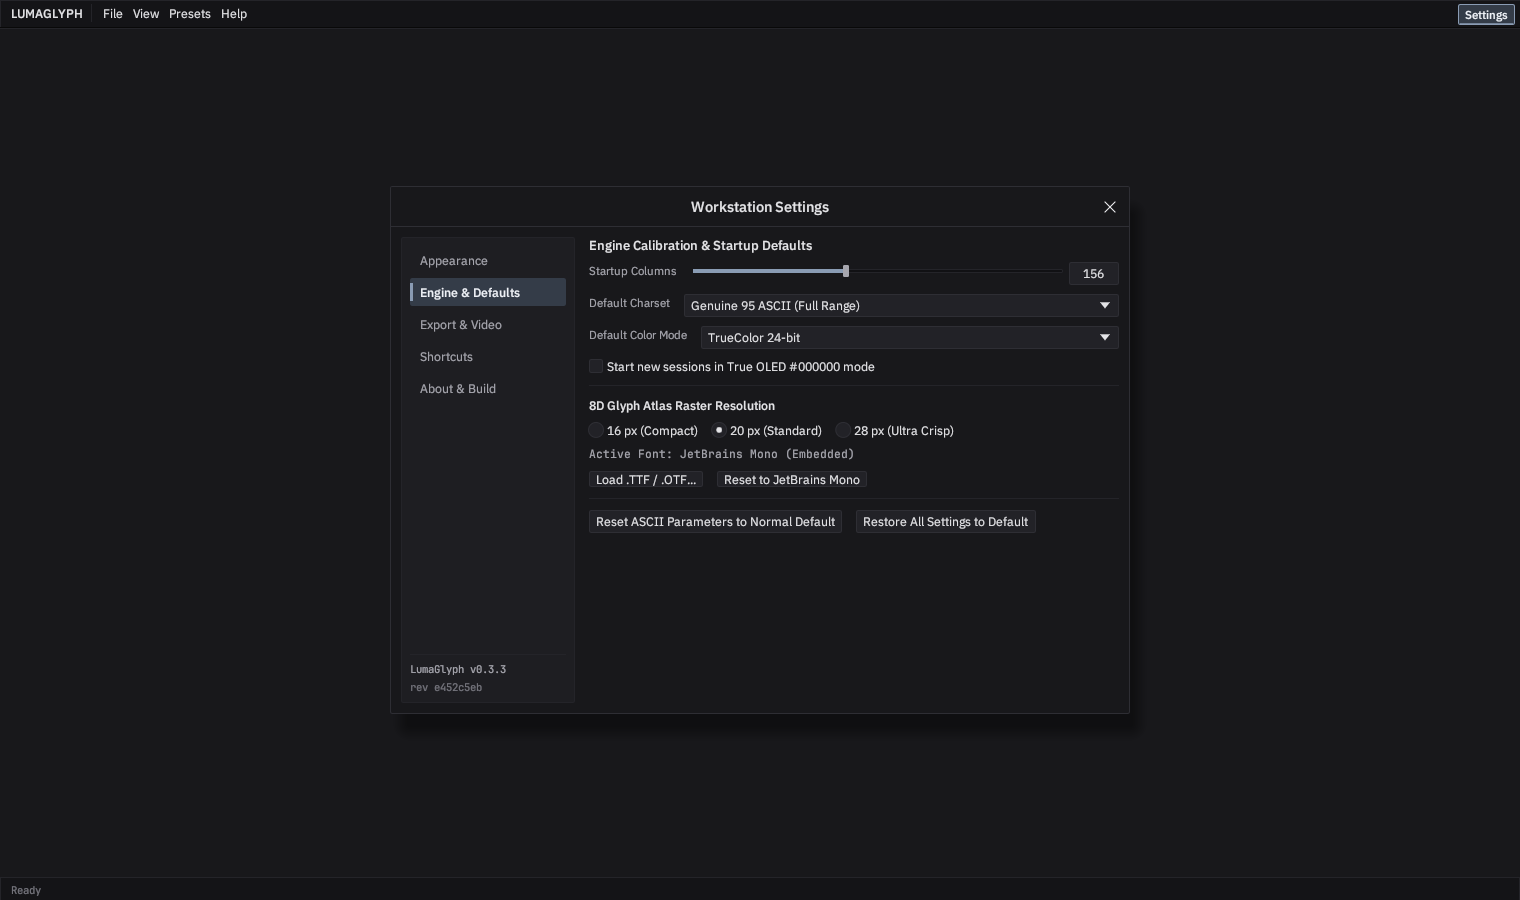
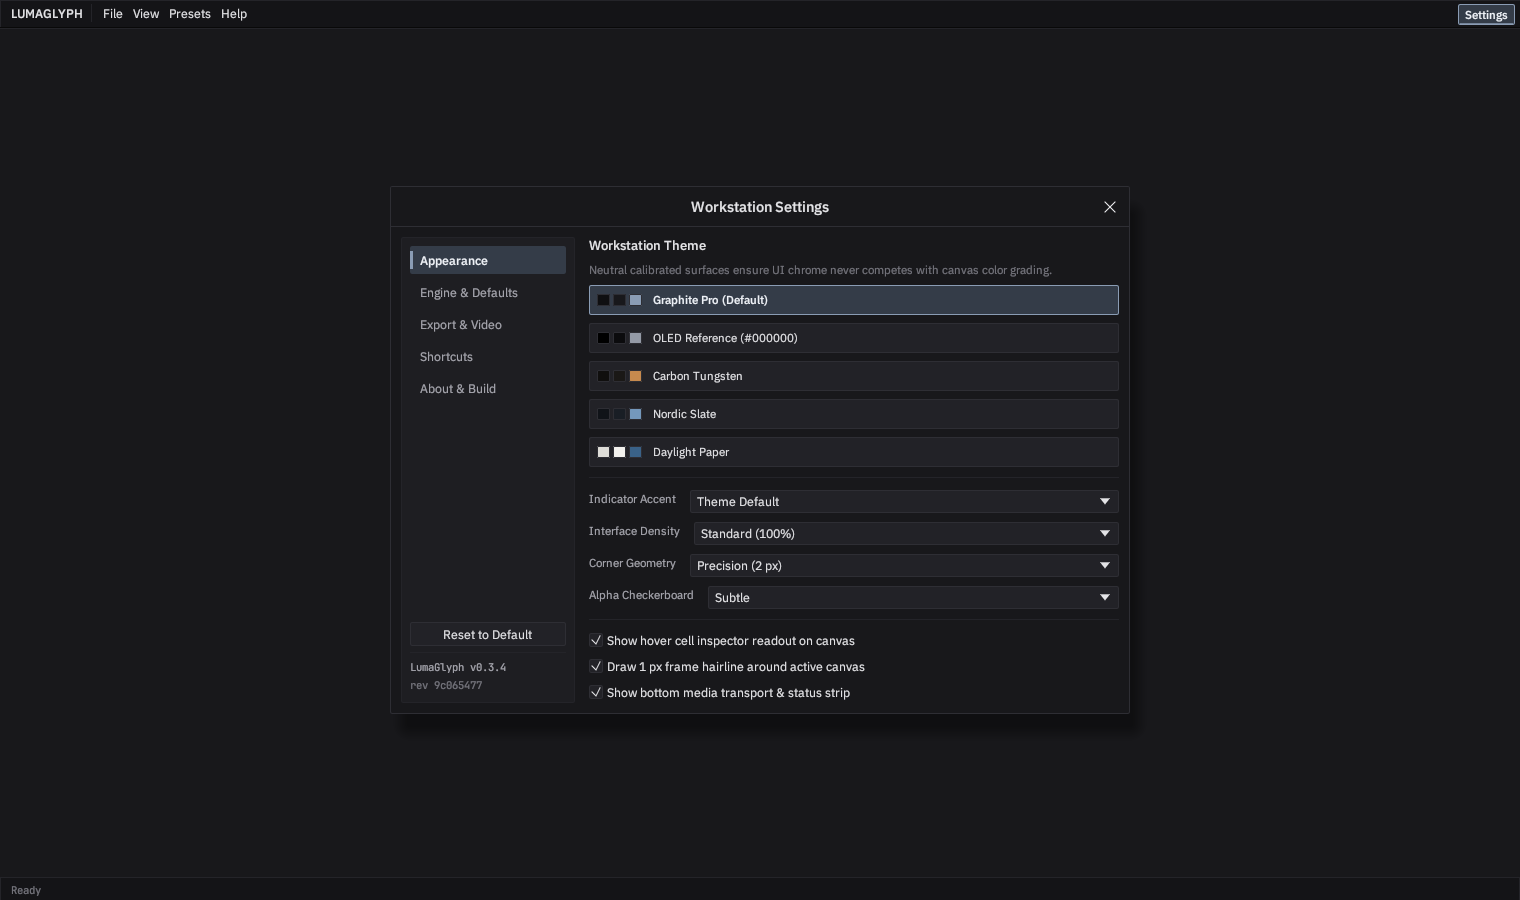
v0.3.4: Windows running-exe safe source rebuild, anchored Reset to Default in Settings rail, startup default sync

Changed region(s): [[0.2474, 0.2489, 0.7421, 0.7778], [0.2783, 0.6844, 0.3401, 0.7778]]

diff --git a/src/updater.rs b/src/updater.rs
@@ -1720,9 +1720,37 @@ fn configure_hidden_subprocess(cmd: &mut std::process::Command) {
     }
 }
 
+fn resolve_cargo_program() -> PathBuf {
+    if let Some(c) = std::env::var_os("CARGO") {
+        let p = PathBuf::from(c);
+        if p.is_file() {
+            return p;
+        }
+    }
+    let bin_name = if cfg!(target_os = "windows") {
+        "cargo.exe"
+    } else {
+        "cargo"
+    };
+    if let Some(ch) = std::env::var_os("CARGO_HOME") {
+        let p = PathBuf::from(ch).join("bin").join(bin_name);
+        if p.is_file() {
+            return p;
+        }
+    }
+    if let Some(home) = dirs::home_dir() {
+        let p = home.join(".cargo").join("bin").join(bin_name);
+        if p.is_file() {
+            return p;
+        }
+    }
+    PathBuf::from(bin_name)
+}
+
 /// Fetches the verified release tag from the canonical GitHub repository inside a local Cargo checkout,
-/// rebuilds `lumaglyph` in `--release --locked` mode with zero console window popups, verifies the
-/// compiled native binary header, and updates `target_exe`.
+/// rebuilds `lumaglyph` in `--release --locked` mode with zero console window popups (moving any running
+/// Windows `lumaglyph.exe` aside to `.old` prior to linking so `link.exe` never hits `LNK1104`), verifies
+/// the compiled native binary header, and updates `target_exe`.
 pub fn rebuild_from_verified_release_tag(
     repo: &str,
     tag: &str,
@@ -1777,20 +1805,6 @@ pub fn rebuild_from_verified_release_tag(
         ));
     }
 
-    let mut cargo_cmd = std::process::Command::new("cargo");
-    configure_hidden_subprocess(&mut cargo_cmd);
-    let build_out = cargo_cmd
-        .current_dir(repo_root)
-        .args(["build", "--release", "--locked"])
-        .output()
-        .map_err(|e| format!("Failed invoking cargo build: {e}"))?;
-    if !build_out.status.success() {
-        return Err(format!(
-            "cargo build --release --locked failed: {}",
-            String::from_utf8_lossy(&build_out.stderr).trim()
-        ));
-    }
-
     let bin_name = if cfg!(target_os = "windows") {
         "lumaglyph.exe"
     } else {
@@ -1802,12 +1816,66 @@ pub fn rebuild_from_verified_release_tag(
         .join("release")
         .join(bin_name);
 
-    let built_bytes = fs::read(&built_path).map_err(|e| {
-        format!(
-            "Failed reading rebuilt release binary '{}': {e}",
-            built_path.display()
-        )
-    })?;
+    // On Windows, if the running executable IS `target\release\lumaglyph.exe`, rename it to `.old`
+    // before invoking `cargo build --release` so MSVC `link.exe` can write the new `.exe` cleanly.
+    let mut moved_running_backup: Option<PathBuf> = None;
+    if built_path == target_exe && target_exe.exists() {
+        let parent = target_exe.parent().unwrap_or_else(|| Path::new("."));
+        let nonce = TMP_NONCE.fetch_add(1, Ordering::Relaxed);
+        let pid = std::process::id();
+        let primary_old = parent.join(format!("{bin_name}.old"));
+        if primary_old.exists() {
+            let _ = fs::remove_file(&primary_old);
+        }
+        let backup_path = if primary_old.exists() {
+            parent.join(format!("{bin_name}.old.{pid}.{nonce}"))
+        } else {
+            primary_old
+        };
+        if fs::rename(target_exe, &backup_path).is_ok() {
+            moved_running_backup = Some(backup_path);
+        }
+    }
+
+    let mut cargo_cmd = std::process::Command::new(resolve_cargo_program());
+    configure_hidden_subprocess(&mut cargo_cmd);
+    let build_res = cargo_cmd
+        .current_dir(repo_root)
+        .args(["build", "--release", "--locked"])
+        .output();
+
+    let build_out = match build_res {
+        Ok(out) if out.status.success() => out,
+        Ok(out) => {
+            if let Some(bak) = &moved_running_backup {
+                let _ = fs::rename(bak, target_exe);
+            }
+            return Err(format!(
+                "cargo build --release --locked failed: {}",
+                String::from_utf8_lossy(&out.stderr).trim()
+            ));
+        }
+        Err(e) => {
+            if let Some(bak) = &moved_running_backup {
+                let _ = fs::rename(bak, target_exe);
+            }
+            return Err(format!("Failed invoking cargo build: {e}"));
+        }
+    };
+    let _ = build_out;
+
+    let built_bytes = match fs::read(&built_path) {
+        Ok(b) => b,
+        Err(e) => {
+            if let Some(bak) = &moved_running_backup {
+                let _ = fs::rename(bak, target_exe);
+            }
+            return Err(format!(
+                "Failed reading rebuilt release binary '{}': {e}",
+                built_path.display()
+            ));
+        }
+    };
     let digest = sha256_bytes(&built_bytes);
 
     if let Some(target) = PlatformTarget::current() {
@@ -1816,6 +1884,10 @@ pub fn rebuild_from_verified_release_tag(
         } else {
             verify_executable_header(&built_bytes, target)?;
         }
+    }
+
+    if let Some(bak) = &moved_running_backup {
+        let _ = fs::remove_file(bak);
     }
 
     let final_exe = if built_path == target_exe {

diff --git a/src/gui.rs b/src/gui.rs
@@ -300,10 +300,16 @@ impl LumaGlyphApp {
 
     fn reset_ascii_to_default(&mut self) {
         self.params = RenderParams::default();
-        self.atlas = GlyphAtlas::default_embedded(self.prefs.atlas_cell_height.clamp(12, 36));
+        self.prefs.default_cols = 156;
+        self.prefs.default_charset = CharsetPreset::Genuine95;
+        self.prefs.default_color_mode = ColorMode::TrueColor;
+        self.prefs.default_oled_black = false;
+        self.prefs.atlas_cell_height = 20;
+        self.atlas = GlyphAtlas::default_embedded(20);
         self.auto_fit = true;
         self.zoom = 1.0;
         self.pan_offset = Vec2::ZERO;
+        let _ = self.prefs.save();
         self.sync_look_code();
         self.ascii_dirty = true;
         self.set_toast("Reset ASCII parameters to normal default");
@@ -2153,9 +2159,21 @@ impl LumaGlyphApp {
                                         }
                                     }
 
-                                    let rem = ui.available_height() - 42.0;
+                                    let rem = ui.available_height() - 72.0;
                                     if rem > 4.0 {
                                         ui.add_space(rem);
+                                    }
+                                    if ui
+                                        .add_sized(
+                                            [ui.available_width(), 24.0],
+                                            egui::Button::new("Reset to Default"),
+                                        )
+                                        .on_hover_text(
+                                            "Reset all ASCII parameters and startup defaults to normal (Ctrl+Shift+R)",
+                                        )
+                                        .clicked()
+                                    {
+                                        self.reset_ascii_to_default();
                                     }
                                     ui.separator();
                                     ui.label(

diff --git a/src/lib.rs b/src/lib.rs
@@ -108,11 +108,11 @@ mod tests {
 
     #[test]
     fn build_metadata_is_populated_and_path_free() {
-        assert_eq!(APP_VERSION, "0.3.3");
+        assert_eq!(APP_VERSION, "0.3.4");
         assert!(!BUILD_GIT_SHA.is_empty());
         assert!(!BUILD_TARGET_TRIPLE.is_empty());
         let report = format_build_report(Some("Test GPU"), Some("ffmpeg 7.1"), "8.0 MB");
-        assert!(report.contains("LumaGlyph v0.3.3"));
+        assert!(report.contains("LumaGlyph v0.3.4"));
         assert!(!report.contains("/home/"));
         assert!(!report.contains("/Users/"));
         assert!(!report.contains("C:\\Users\\"));

diff --git a/tests/video_and_cli_e2e.rs b/tests/video_and_cli_e2e.rs
@@ -146,7 +146,7 @@ fn compiled_cli_binary_executes_headless_commands_cleanly() {
     let info_out = Command::new(bin).arg("build-info").output().unwrap();
     assert!(info_out.status.success());
     let info_str = String::from_utf8_lossy(&info_out.stdout);
-    assert!(info_str.contains("LumaGlyph v0.3.3"));
+    assert!(info_str.contains("LumaGlyph v0.3.4"));
 
     let look_out = Command::new(bin).arg("look").output().unwrap();
     assert!(look_out.status.success());

diff --git a/README.md b/README.md
@@ -8,11 +8,11 @@
 
 Unlike basic 10-character brightness ramps (`@%#*+=-:. `), **LumaGlyph** treats every printable 7-bit ASCII glyph (`0x20..=0x7E`) as 2D geometry. Each font is dynamically calibrated into 32-byte-aligned **8D shape + structure-tensor orientation vectors**, locking `/ \ | _ ( ) [ ] < > ^ ~ , ' ; ! ? $ & % W M # @` directly onto curves, diagonals, silhouettes, and tonal gradients at **500+ FPS** (`< 2 ms/frame`) and **`~7-9 MB` CLI RSS**.
 
-![LumaGlyph v0.3.3 - Fresh Empty Workstation](docs/screenshots/v033-fresh-window.png)
+![LumaGlyph v0.3.4 - Fresh Empty Workstation](docs/screenshots/v033-fresh-window.png)
 
 ---
 
-## New in `v0.3.3` - Fresh Empty Workstation, Normal Reset & Automatic Update-and-Relaunch
+## New in `v0.3.4` - Fresh Empty Workstation, Normal Reset & Automatic Update-and-Relaunch
 
 - **Fresh VS Code-Style Empty Startup (Zero Samples Anywhere):**
   - Launching `lumaglyph` opens directly into a calm, uncluttered empty window - slim top menu strip, clean neutral workbench with discrete recessed keybinding hints (`Ctrl+O`, `Ctrl+Shift+O`, `Ctrl+B`, `Ctrl+,` + OS drag-and-drop), and a quiet `Ready` status bar with zero side panels or clutter until media is opened (or `Ctrl+B` toggles the Inspector).
